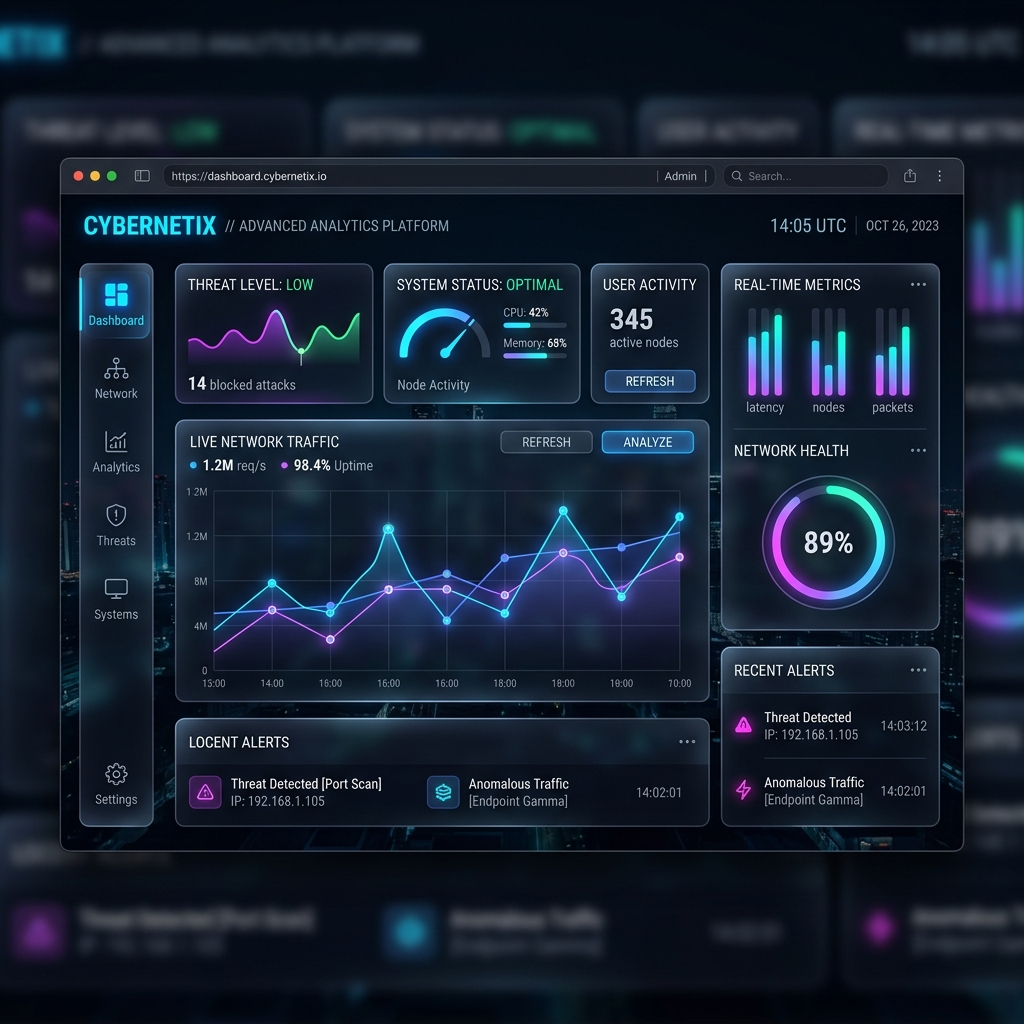
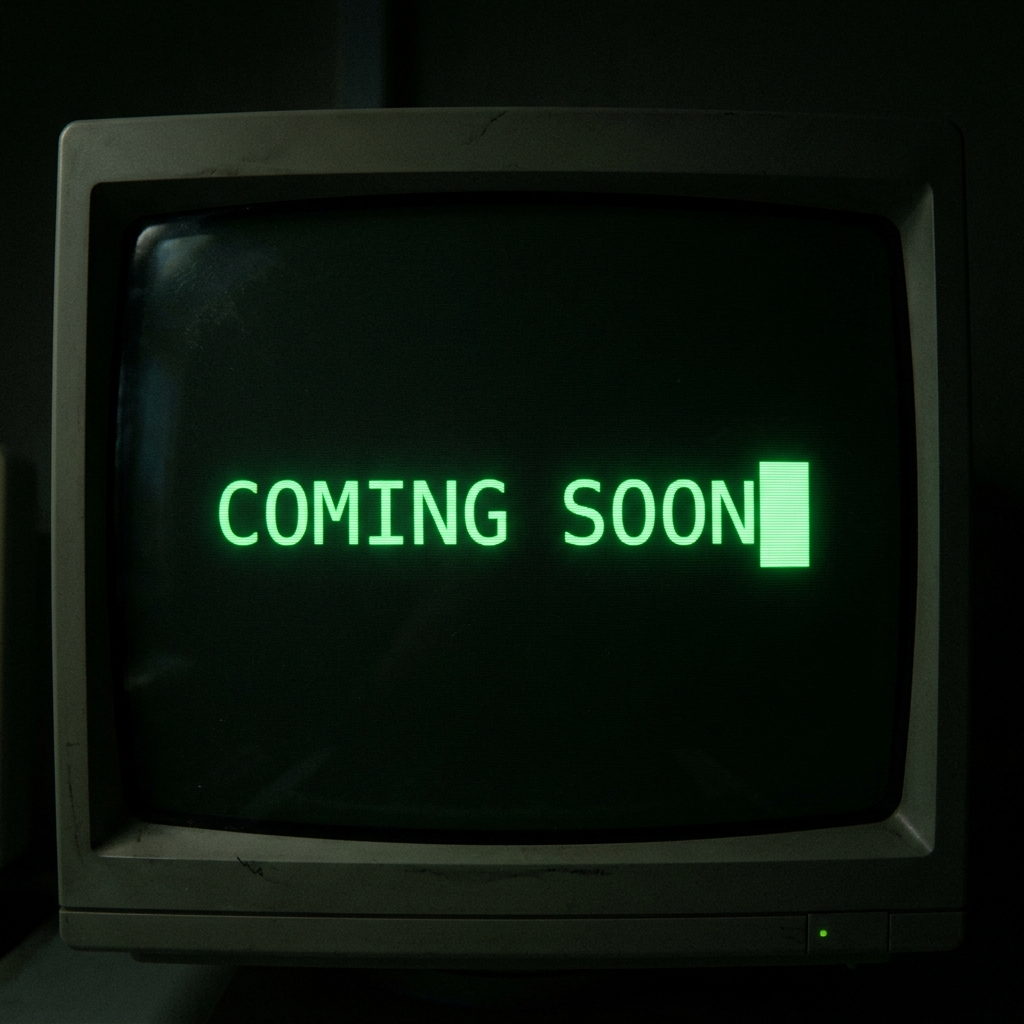
ok

diff --git a/src/components/sections/About.tsx b/src/components/sections/About.tsx
@@ -1,7 +1,7 @@
 "use client";
 
 import Section from "@/components/Section";
-import { Terminal, Code, Cpu } from "lucide-react";
+import Image from "next/image";
 import { useLanguage } from "../LanguageContext";
 
 export default function About() {
@@ -18,9 +18,6 @@ export default function About() {
     p3: language === "ja"
       ? "とにかく新規性重視で、まだこの世にないものを探し求めて、日々を過ごしています！"
       : "I strongly focus on novelty, always searching for things that don't exist in this world yet!",
-    frontendDesc: language === "ja" ? "React, Next.js を用いたモダンなUI構築" : "Modern UI development using React, Next.js",
-    designDesc: language === "ja" ? "Tailwind CSS, Framer Motion によるリッチな表現" : "Rich visual expressions with Tailwind CSS & Framer Motion",
-    challengeDesc: language === "ja" ? "常に新しい技術や「面白い」アイデアに挑戦" : "Constantly challenging new tech and 'fun' ideas"
   };
   return (
     <Section id="about" title={t.title}>
@@ -31,34 +28,14 @@ export default function About() {
           <p>{t.p3}</p>
         </div>
         
-        <div className="grid grid-cols-1 gap-4">
-          <div className="p-6 rounded-2xl bg-white/5 border border-white/10 backdrop-blur-sm flex items-start gap-4 hover:border-[var(--primary)]/50 transition-colors">
-            <div className="p-3 rounded-lg bg-[var(--primary)]/10 text-[var(--primary)]">
-              <Terminal size={24} />
-            </div>
-            <div>
-              <h3 className="text-white font-bold text-xl mb-2">Frontend</h3>
-              <p className="text-gray-400 text-sm">{t.frontendDesc}</p>
-            </div>
-          </div>
-          <div className="p-6 rounded-2xl bg-white/5 border border-white/10 backdrop-blur-sm flex items-start gap-4 hover:border-[var(--secondary)]/50 transition-colors">
-            <div className="p-3 rounded-lg bg-[var(--secondary)]/10 text-[var(--secondary)]">
-              <Code size={24} />
-            </div>
-            <div>
-              <h3 className="text-white font-bold text-xl mb-2">Design</h3>
-              <p className="text-gray-400 text-sm">{t.designDesc}</p>
-            </div>
-          </div>
-          <div className="p-6 rounded-2xl bg-white/5 border border-white/10 backdrop-blur-sm flex items-start gap-4 hover:border-[var(--accent)]/50 transition-colors">
-            <div className="p-3 rounded-lg bg-[var(--accent)]/10 text-[var(--accent)]">
-              <Cpu size={24} />
-            </div>
-            <div>
-              <h3 className="text-white font-bold text-xl mb-2">Challenge</h3>
-              <p className="text-gray-400 text-sm">{t.challengeDesc}</p>
-            </div>
-          </div>
+        <div className="relative w-full aspect-square max-w-md mx-auto md:max-w-none rounded-2xl overflow-hidden border border-white/10 bg-white/5 backdrop-blur-sm group">
+          <div className="absolute inset-0 bg-gradient-to-tr from-[var(--primary)]/20 to-transparent opacity-0 group-hover:opacity-100 transition-opacity duration-500 z-10 mix-blend-overlay"></div>
+          <Image 
+            src="/images/me1.png"
+            alt="Miiiwa"
+            fill
+            className="object-cover transition-transform duration-700 group-hover:scale-105 grayscale group-hover:grayscale-0"
+          />
         </div>
       </div>
     </Section>

diff --git a/src/data/projects/imadoko.ts b/src/data/projects/imadoko.ts
@@ -5,7 +5,7 @@ export const imadoko: { ja: Project; en: Project } = {
     id: 3,
     title: "imadoko",
     description: "URLを共有するだけで現在地をリアルタイムに共有できるWebアプリです。アプリインストールやアカウント登録は不要で、すぐに使い始められます。",
-    image: "/images/project_placeholder.png",
+    image: "/images/imadoko.png",
     tags: ["Next.js", "Supabase", "Tailwind CSS", "Leaflet"],
     category: "WEB",
     status: "Public",
@@ -16,7 +16,7 @@ export const imadoko: { ja: Project; en: Project } = {
     id: 3,
     title: "imadoko",
     description: "A web app that allows you to share your current location in real-time just by sharing a URL. No app installation or account registration is required, and you can start using it immediately.",
-    image: "/images/project_placeholder.png",
+    image: "/images/imadoko.png",
     tags: ["Next.js", "Supabase", "Tailwind CSS", "Leaflet"],
     category: "WEB",
     status: "Public",

diff --git a/src/data/projects/mesen.ts b/src/data/projects/mesen.ts
@@ -5,7 +5,7 @@ export const mesen: { ja: Project; en: Project } = {
     id: 4,
     title: "mesen",
     description: "視線推定・顔認識を行い、結果をGIFやMP4で出力できるWebアプリケーションです。MediaPipeを用いてブラウザ上で動作します。",
-    image: "/images/project_placeholder.png",
+    image: "/images/mesen.png",
     tags: ["Next.js", "MediaPipe", "Tailwind CSS"],
     category: "WEB",
     status: "Public",
@@ -16,7 +16,7 @@ export const mesen: { ja: Project; en: Project } = {
     id: 4,
     title: "mesen",
     description: "A web application that performs gaze estimation and face recognition, and can output the results as GIF or MP4. It runs on the browser using MediaPipe.",
-    image: "/images/project_placeholder.png",
+    image: "/images/mesen.png",
     tags: ["Next.js", "MediaPipe", "Tailwind CSS"],
     category: "WEB",
     status: "Public",

diff --git a/src/data/projects/soundCardGame.ts b/src/data/projects/soundCardGame.ts
@@ -5,7 +5,7 @@ export const soundCardGame: { ja: Project; en: Project } = {
     id: 7,
     title: "音階神経衰弱",
     description: "音を頼りに同じ音階のカードペアを探す神経衰弱（メモリー）ゲームです。カードをめくると音階が鳴ります。",
-    image: "/images/project_placeholder.png",
+    image: "/images/音階神経衰弱.png",
     tags: ["Next.js", "React", "Web Audio API"],
     category: "WEB",
     status: "Public",
@@ -16,7 +16,7 @@ export const soundCardGame: { ja: Project; en: Project } = {
     id: 7,
     title: "Sound Memory Game",
     description: "A memory game where you rely on sound to find matching card pairs of the same musical scale. When you flip a card, a musical scale is played.",
-    image: "/images/project_placeholder.png",
+    image: "/images/音階神経衰弱.png",
     tags: ["Next.js", "React", "Web Audio API"],
     category: "WEB",
     status: "Public",

diff --git a/src/data/projects/vegetableCardGame.ts b/src/data/projects/vegetableCardGame.ts
@@ -5,7 +5,7 @@ export const vegetableCardGame: { ja: Project; en: Project } = {
     id: 8,
     title: "野菜メモリーカードゲーム",
     description: "野菜画像を使ったメモリーカードゲーム（神経衰弱）です。",
-    image: "/images/project_placeholder.png",
+    image: "/images/野菜神経衰弱.png",
     tags: ["Next.js", "React", "CSS Modules"],
     category: "WEB",
     status: "Public",
@@ -16,7 +16,7 @@ export const vegetableCardGame: { ja: Project; en: Project } = {
     id: 8,
     title: "Vegetable Memory Game",
     description: "A memory card game (concentration) using vegetable images.",
-    image: "/images/project_placeholder.png",
+    image: "/images/野菜神経衰弱.png",
     tags: ["Next.js", "React", "CSS Modules"],
     category: "WEB",
     status: "Public",